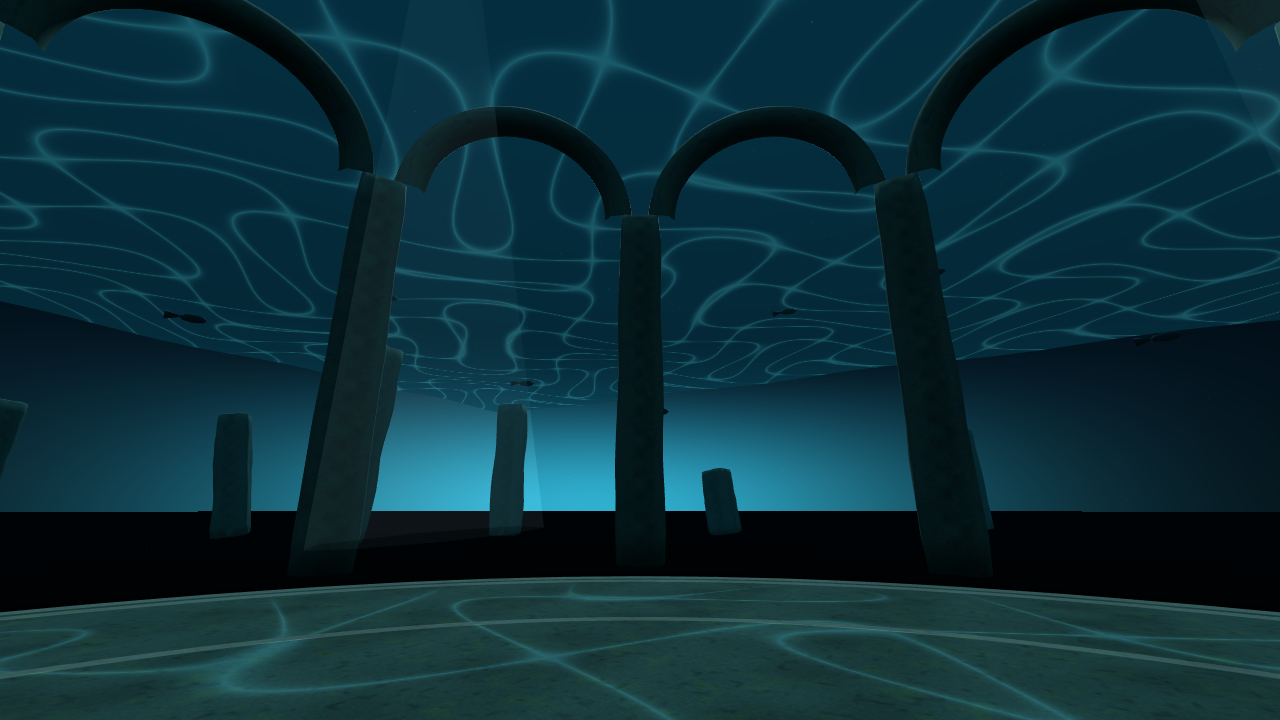
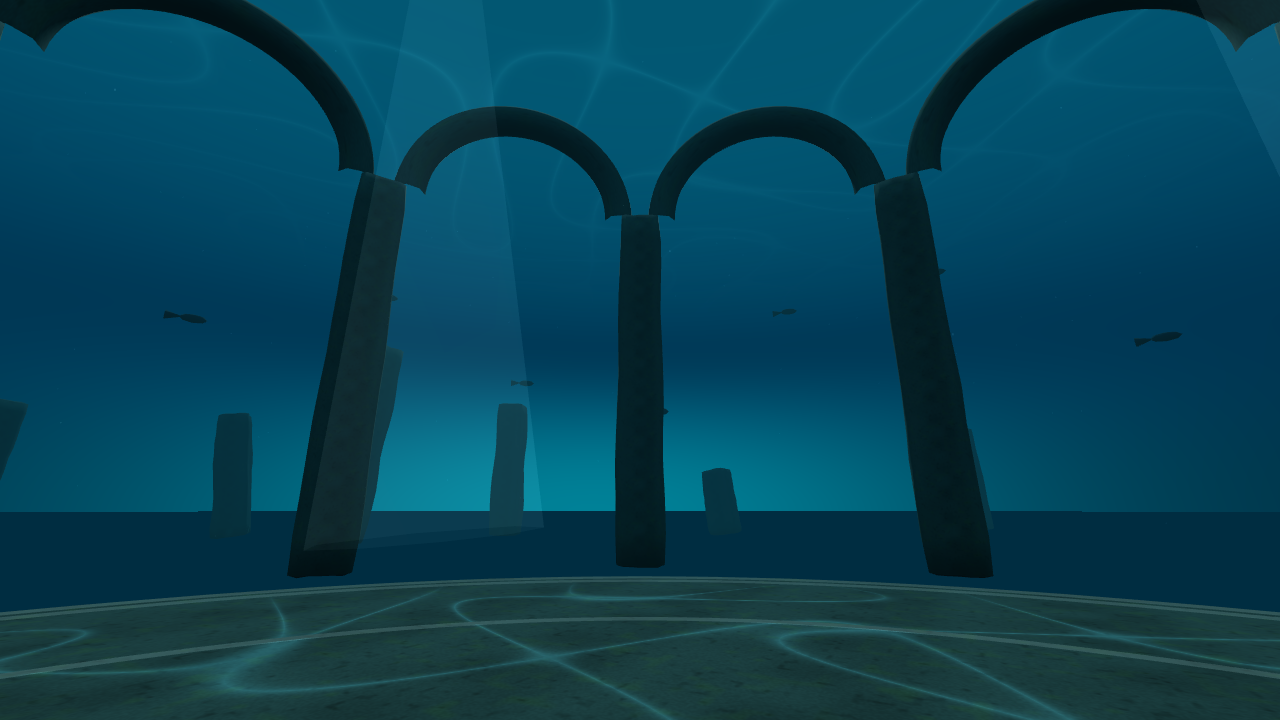
Soften Drowned Temple distance fog and hide canopy edges

diff --git a/worlds/temple-water.js b/worlds/temple-water.js
@@ -1,8 +1,9 @@
 export function templeWater(simplified){
  const uniforms={time:{value:0},quiet:{value:1},strength:{value:.35}};
  const water=new THREE.Mesh(new THREE.PlaneGeometry(180,180,simplified?16:64,simplified?16:64),new THREE.ShaderMaterial({side:THREE.DoubleSide,transparent:true,depthWrite:false,uniforms,
-  vertexShader:`varying vec2 p;uniform float time;uniform float quiet;void main(){p=position.xy;vec3 v=position;v.z+=(sin(p.x*.17+time*.12)+cos(p.y*.21-time*.1))*.25*(1.-quiet);gl_Position=projectionMatrix*modelViewMatrix*vec4(v,1.);}`,
-  fragmentShader:`varying vec2 p;uniform float time;uniform float strength;void main(){float a=sin(p.x*.31+sin(p.y*.23+time*.06)*2.+time*.08);float b=cos(p.y*.29+sin(p.x*.21-time*.05)*2.-time*.07);float ridge=pow(1.-abs(a*b),16.);vec3 c=mix(vec3(.025,.24,.31),vec3(.22,.65,.7),ridge*.8);gl_FragColor=vec4(c,strength);}`
+  vertexShader:`varying vec2 p;varying vec3 worldPosition;uniform float time;uniform float quiet;void main(){p=position.xy;vec3 v=position;v.z+=(sin(p.x*.17+time*.12)+cos(p.y*.21-time*.1))*.25*(1.-quiet);worldPosition=(modelMatrix*vec4(v,1.)).xyz;gl_Position=projectionMatrix*modelViewMatrix*vec4(v,1.);}`,
+  // Fade before the square mesh perimeter; view distance also softens the horizon in each XR eye.
+  fragmentShader:`varying vec2 p;varying vec3 worldPosition;uniform float time;uniform float strength;void main(){float a=sin(p.x*.31+sin(p.y*.23+time*.06)*2.+time*.08);float b=cos(p.y*.29+sin(p.x*.21-time*.05)*2.-time*.07);float ridge=pow(1.-abs(a*b),16.);float distanceFade=exp(-pow(length(worldPosition-cameraPosition)*.025,2.));float edgeFade=1.-smoothstep(40.,80.,length(p));vec3 c=mix(vec3(.025,.24,.31),vec3(.22,.65,.7),ridge*.8*distanceFade);gl_FragColor=vec4(c,strength*edgeFade*distanceFade);}`
  }));water.rotation.x=-Math.PI/2;water.position.y=24;water.name='Ocean canopy';
  const causticUniforms={time:{value:0},strength:{value:.12}};
  const caustics=new THREE.Mesh(new THREE.CircleGeometry(13.4,64),new THREE.ShaderMaterial({transparent:true,depthWrite:false,blending:THREE.AdditiveBlending,uniforms:causticUniforms,

diff --git a/worlds/drowned-temple.js b/worlds/drowned-temple.js
@@ -3,7 +3,9 @@ import {templeWater} from './temple-water.js';
 VR.registerWorld({id:'drowned-temple',name:'The Drowned Temple',blurb:'An air-filled sanctuary beneath the ocean, with weathered arches, drifting fish and sunlight rippling across the stone.',
  build(ctx){
   const g=ctx.group,K=VR.kit,dir=VR.dir,hash=VR.hash;
-  ctx.setFog(0x073847,.018);K.sky(g,{top:0x185c73,mid:0x0b3c51,horizon:0x062b3b,glow:0x73ccda,glowBearing:55,glowPower:4,opposite:0x031620,below:0x020d14});
+  // Match the distant background to the scattering color so fog has no visible boundary.
+  ctx.setFog(0x073847,.04);const sky=K.sky(g,{top:0x185c73,mid:0x0b3c51,horizon:0x073847,glow:0x205e6b,glowBearing:55,glowPower:4,opposite:0x073847,oppositeAmount:0,below:0x073847});
+  sky.material.fragmentShader=sky.material.fragmentShader.replace('uHor*.55','uHor').replace('gl_FragColor=vec4(c,1.);','gl_FragColor=vec4(c,1.);\n#include <tonemapping_fragment>\n#include <colorspace_fragment>\n');
   g.add(new THREE.HemisphereLight(0x9dd9e4,0x112a2a,1.1));const sun=new THREE.DirectionalLight(0xc3edf0,1.5);sun.position.copy(dir(55).multiplyScalar(35)).setY(50);g.add(sun);
   const maps=stoneMaps(ctx.simplified),stone=new THREE.MeshStandardMaterial({color:0x6d8989,map:maps.map,bumpMap:maps.bumpMap,bumpScale:.05,roughness:.98,vertexColors:true});
   const floorMat=new THREE.MeshStandardMaterial({color:0x526967,map:maps.map,bumpMap:maps.bumpMap,bumpScale:.025,roughness:.95});

diff --git a/docs/verification-results.md b/docs/verification-results.md
@@ -100,6 +100,8 @@ Production build and targeted browser checks pass for texture loading, standing-
 
 ## New world: The Drowned Temple
 
+Underwater distance pass: exponential fog density is now 0.04, fading distant ruins while retaining the central ritual area. The sky uses the renderer's tone/color conversion and matches the fog at the lower horizon. The ocean canopy fades radially before its square perimeter and softens with per-eye view distance. The updated production build and targeted temple browser test pass, including quiet modes and stable teardown resources; the screenshot below reflects this pass. Meshy remains an option for more intricate arches/ruins; no new paid generation was requested or run.
+
 Registered as `drowned-temple` in `worlds/index.json`, available for every existing rite. A level 13.5m-radius stone floor sits inside weathered pillars and arches. Pillar clearance is 15.3m from the centre; decorative floor rings start at 8.5m. An ocean canopy 24m overhead has slow waves and surface light patterns, with a separate caustics layer across the floor, steady light shafts, exterior ruins and two instanced batches for 24 fish bodies/tails.
 
 Custom GLSL water works with the existing Three.js r186 WebGLRenderer. This pass does not use WebGPU water demos, planar reflection/refraction render targets, underwater postprocessing or a physical fluid simulation. This avoids extra per-eye scene renders. The canopy and caustics are artistic representations; physical Quest stereo appearance still needs testing.
